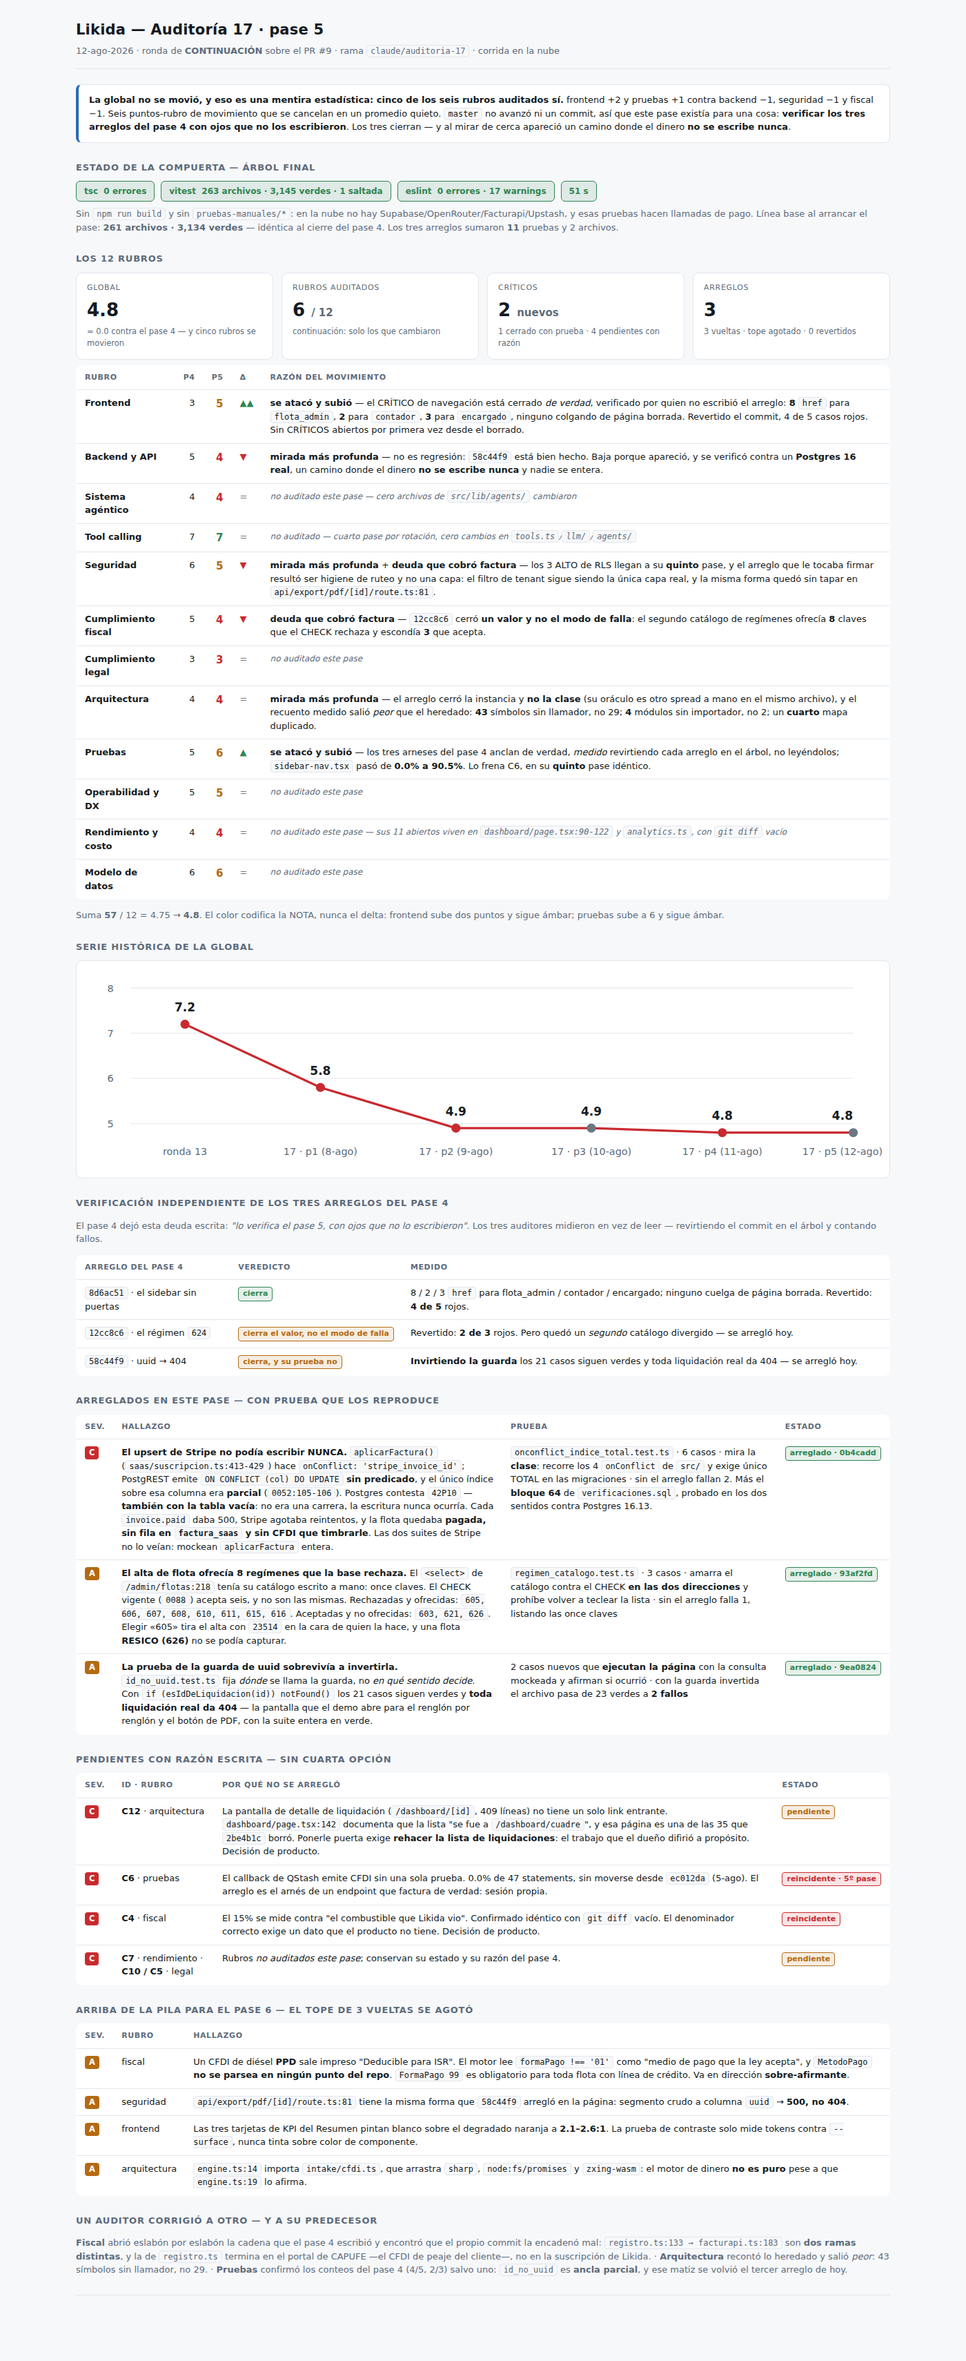
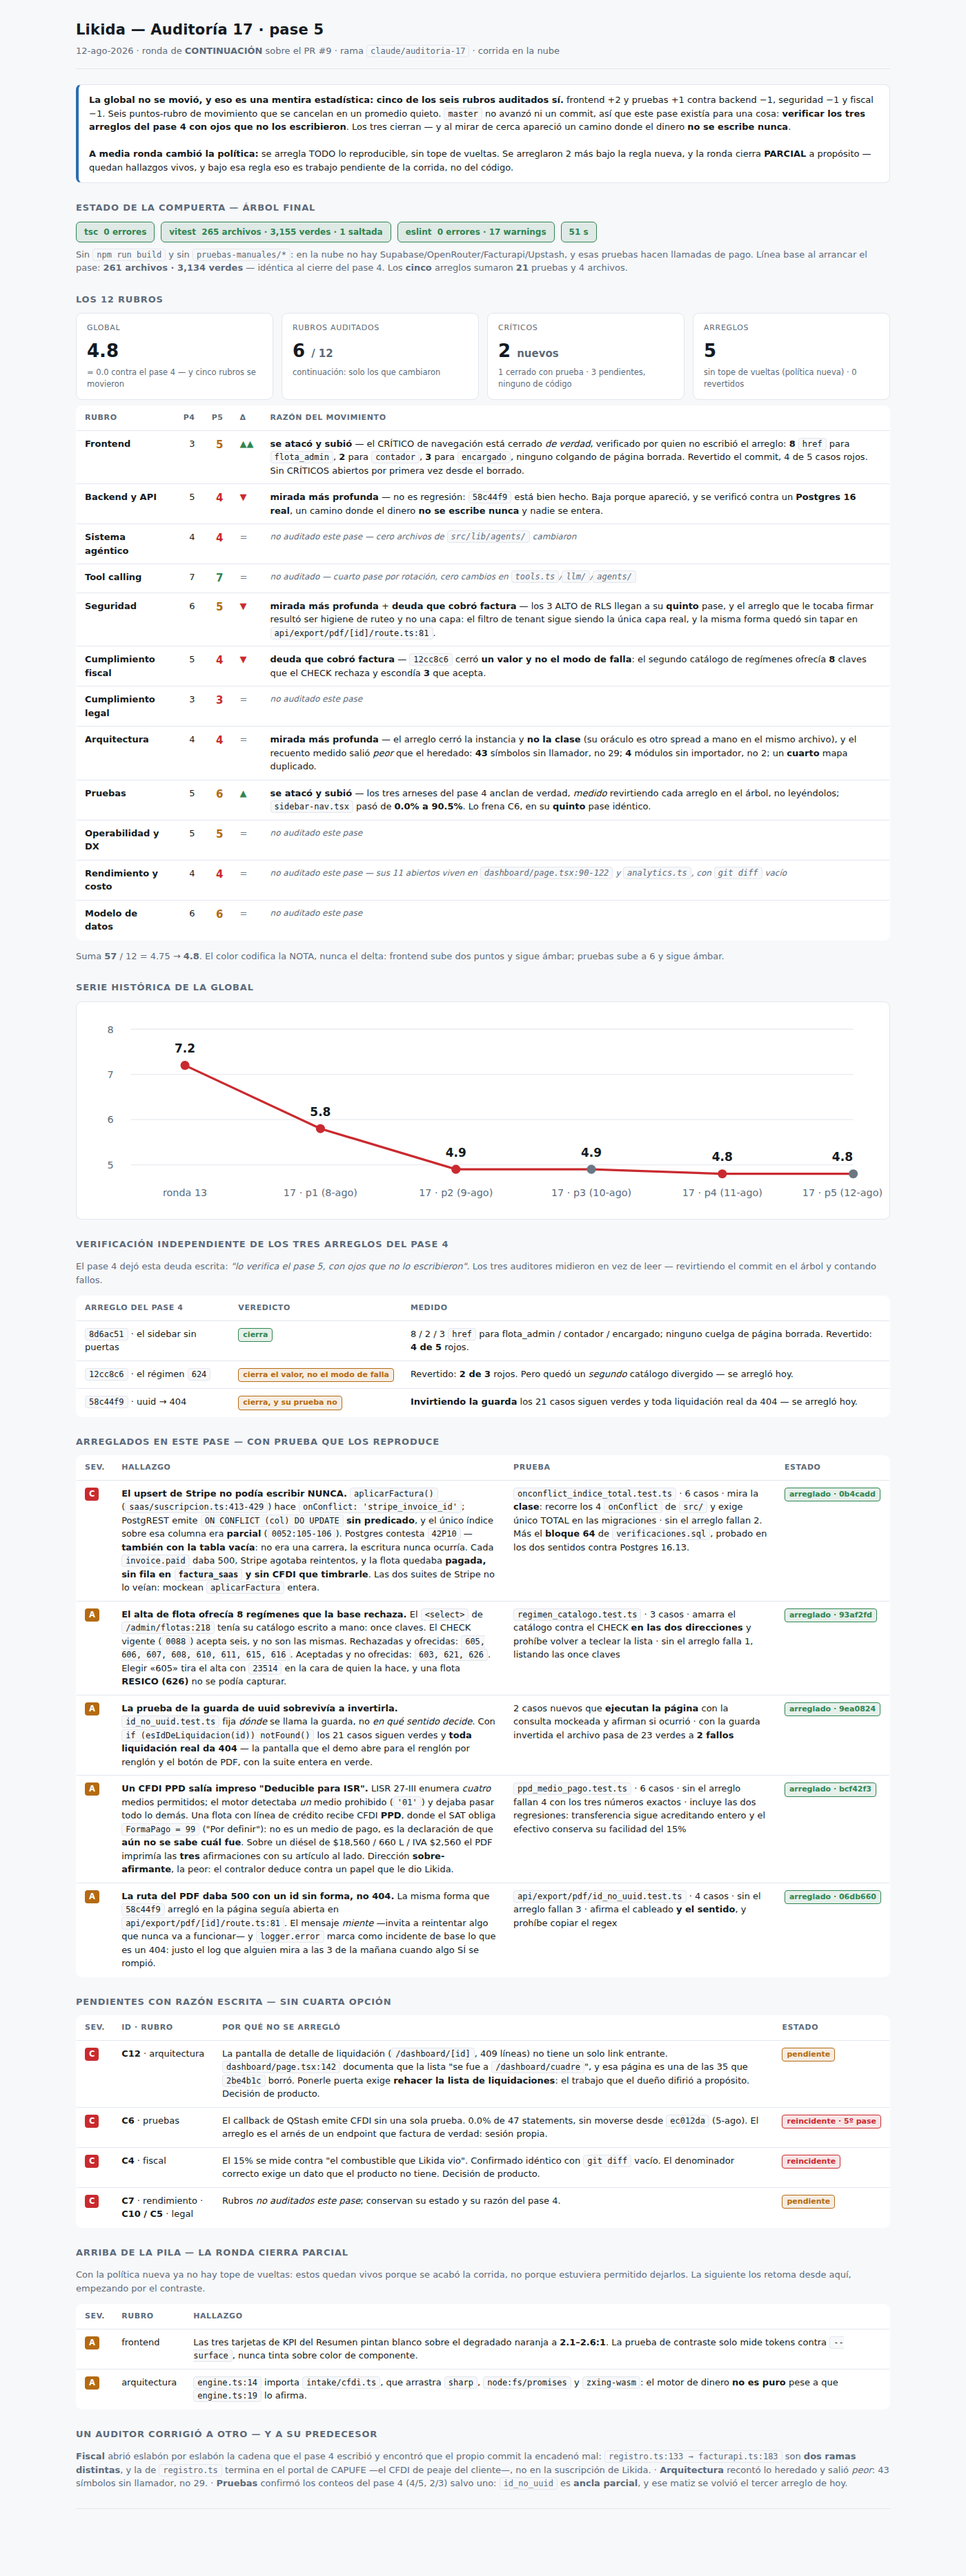
docs(auditoria-17): pase 5 cierra PARCIAL — 5 arreglados bajo la politica nueva
A media ronda cambio la politica (a3e3b5a): se arregla todo lo reproducible,
sin tope de vueltas. Se arreglaron 2 mas despues del cambio — el CFDI PPD
(bcf42f3) y el 500 de la ruta del PDF (06db660) — para un total de 5.

RESULTADO pasa de COMPLETA a PARCIAL a proposito: quedan ~24 ALTO, ~39 MEDIO y
~16 BAJO vivos segun el conteo de los auditores, y bajo la regla nueva eso es
trabajo pendiente de la CORRIDA, no del codigo. progreso.md deja escrito en que
hallazgo se quedo para que la siguiente retome sin reauditar.

Las notas de los rubros NO se movieron por estos dos arreglos: entraron despues
de que los auditores entregaran. Los verifica el pase 6.

Tablero recapturado (1400x3730) y mirado: 12 rubros, 5 arreglos, compuerta
265 archivos / 3,155 verdes.

Claude-Session: https://claude.ai/code/session_01AREwoye4vrRtCWoTxwLUow

diff --git a/docs/auditoria-17/tablero.html b/docs/auditoria-17/tablero.html
@@ -92,12 +92,13 @@
   así que este pase existía para una cosa: <strong>verificar los tres arreglos del pase 4 con ojos
   que no los escribieron</strong>. Los tres cierran — y al mirar de cerca apareció un camino donde
   el dinero <strong>no se escribe nunca</strong>.
+  <br><br><strong>A media ronda cambió la política:</strong> se arregla TODO lo reproducible, sin tope de vueltas. Se arreglaron 2 más bajo la regla nueva, y la ronda cierra <strong>PARCIAL</strong> a propósito — quedan hallazgos vivos, y bajo esa regla eso es trabajo pendiente de la corrida, no del código.
 </div>
 
 <h2>Estado de la compuerta — árbol final</h2>
 <div class="gate">
   <span class="ok">tsc &nbsp;0 errores</span>
-  <span class="ok">vitest &nbsp;263 archivos · 3,145 verdes · 1 saltada</span>
+  <span class="ok">vitest &nbsp;265 archivos · 3,155 verdes · 1 saltada</span>
   <span class="ok">eslint &nbsp;0 errores · 17 warnings</span>
   <span class="ok">51 s</span>
 </div>
@@ -105,15 +106,15 @@
   Sin <code>npm run build</code> y sin <code>pruebas-manuales/*</code>: en la nube no hay
   Supabase/OpenRouter/Facturapi/Upstash, y esas pruebas hacen llamadas de pago.
   Línea base al arrancar el pase: <strong>261 archivos · 3,134 verdes</strong> — idéntica al cierre
-  del pase 4. Los tres arreglos sumaron <strong>11</strong> pruebas y 2 archivos.
+  del pase 4. Los <strong>cinco</strong> arreglos sumaron <strong>21</strong> pruebas y 4 archivos.
 </p>
 
 <h2>Los 12 rubros</h2>
 <div class="grid">
   <div class="card"><div class="k">Global</div><div class="v">4.8</div><div class="n">= 0.0 contra el pase 4 — y cinco rubros se movieron</div></div>
   <div class="card"><div class="k">Rubros auditados</div><div class="v">6 <span style="font-size:15px;color:var(--muted)">/ 12</span></div><div class="n">continuación: solo los que cambiaron</div></div>
-  <div class="card"><div class="k">Críticos</div><div class="v">2 <span style="font-size:15px;color:var(--muted)">nuevos</span></div><div class="n">1 cerrado con prueba · 4 pendientes con razón</div></div>
-  <div class="card"><div class="k">Arreglos</div><div class="v">3</div><div class="n">3 vueltas · tope agotado · 0 revertidos</div></div>
+  <div class="card"><div class="k">Críticos</div><div class="v">2 <span style="font-size:15px;color:var(--muted)">nuevos</span></div><div class="n">1 cerrado con prueba · 3 pendientes, ninguno de código</div></div>
+  <div class="card"><div class="k">Arreglos</div><div class="v">5</div><div class="n">sin tope de vueltas (política nueva) · 0 revertidos</div></div>
 </div>
 
 <div class="scroll">
@@ -242,6 +243,32 @@
           con la guarda invertida el archivo pasa de 23 verdes a <strong>2 fallos</strong></td>
       <td><span class="est e-ok">arreglado · 9ea0824</span></td>
     </tr>
+    <tr>
+      <td><span class="pill p-a">A</span></td>
+      <td><strong>Un CFDI PPD salía impreso "Deducible para ISR".</strong>
+          LISR 27-III enumera <em>cuatro</em> medios permitidos; el motor detectaba <em>un</em> medio
+          prohibido (<code>'01'</code>) y dejaba pasar todo lo demás. Una flota con línea de crédito recibe
+          CFDI <strong>PPD</strong>, donde el SAT obliga <code>FormaPago = 99</code> ("Por definir"): no es
+          un medio de pago, es la declaración de que <strong>aún no se sabe cuál fue</strong>. Sobre un diésel
+          de $18,560 / 660 L / IVA $2,560 el PDF imprimía las <strong>tres</strong> afirmaciones con su
+          artículo al lado. Dirección <strong>sobre-afirmante</strong>, la peor: el contralor deduce contra un
+          papel que le dio Likida.</td>
+      <td><code>ppd_medio_pago.test.ts</code> · 6 casos · sin el arreglo fallan 4 con los tres números
+          exactos · incluye las dos regresiones: transferencia sigue acreditando entero y el efectivo
+          conserva su facilidad del 15%</td>
+      <td><span class="est e-ok">arreglado · bcf42f3</span></td>
+    </tr>
+    <tr>
+      <td><span class="pill p-a">A</span></td>
+      <td><strong>La ruta del PDF daba 500 con un id sin forma, no 404.</strong>
+          La misma forma que <code>58c44f9</code> arregló en la página seguía abierta en
+          <code>api/export/pdf/[id]/route.ts:81</code>. El mensaje <em>miente</em> —invita a reintentar algo
+          que nunca va a funcionar— y <code>logger.error</code> marca como incidente de base lo que es un 404:
+          justo el log que alguien mira a las 3 de la mañana cuando algo SÍ se rompió.</td>
+      <td><code>api/export/pdf/id_no_uuid.test.ts</code> · 4 casos · sin el arreglo fallan 3 · afirma el
+          cableado <strong>y el sentido</strong>, y prohíbe copiar el regex</td>
+      <td><span class="est e-ok">arreglado · 06db660</span></td>
+    </tr>
   </tbody>
 </table>
 </div>
@@ -267,15 +294,12 @@
 </table>
 </div>
 
-<h2>Arriba de la pila para el pase 6 — el tope de 3 vueltas se agotó</h2>
+<h2>Arriba de la pila — la ronda cierra PARCIAL</h2>
+<p class="sub">Con la política nueva ya no hay tope de vueltas: estos quedan vivos porque se acabó la corrida, no porque estuviera permitido dejarlos. La siguiente los retoma desde aquí, empezando por el contraste.</p>
 <div class="scroll">
 <table>
   <thead><tr><th>Sev.</th><th>Rubro</th><th>Hallazgo</th></tr></thead>
   <tbody>
-    <tr><td><span class="pill p-a">A</span></td><td>fiscal</td>
-        <td>Un CFDI de diésel <strong>PPD</strong> sale impreso "Deducible para ISR". El motor lee <code>formaPago !== '01'</code> como "medio de pago que la ley acepta", y <code>MetodoPago</code> <strong>no se parsea en ningún punto del repo</strong>. <code>FormaPago 99</code> es obligatorio para toda flota con línea de crédito. Va en dirección <strong>sobre-afirmante</strong>.</td></tr>
-    <tr><td><span class="pill p-a">A</span></td><td>seguridad</td>
-        <td><code>api/export/pdf/[id]/route.ts:81</code> tiene la misma forma que <code>58c44f9</code> arregló en la página: segmento crudo a columna <code>uuid</code> → <strong>500, no 404</strong>.</td></tr>
     <tr><td><span class="pill p-a">A</span></td><td>frontend</td>
         <td>Las tres tarjetas de KPI del Resumen pintan blanco sobre el degradado naranja a <strong>2.1–2.6:1</strong>. La prueba de contraste solo mide tokens contra <code>--surface</code>, nunca tinta sobre color de componente.</td></tr>
     <tr><td><span class="pill p-a">A</span></td><td>arquitectura</td>
@@ -296,7 +320,7 @@
 
 <div class="foot">
   Ronda de continuación sobre el PR #9 · <strong>6 de 12</strong> rubros reauditados (los únicos cuyo código
-  cambió) · 3 vueltas de arreglo, tope agotado, <strong>0 revertidos</strong> · <code>master</code> no avanzó
+  cambió) · <strong>5 arreglos</strong> pusheados, sin tope de vueltas, <strong>0 revertidos</strong> · <code>master</code> no avanzó
   ni un commit desde el pase 4: lo único que cambió fueron los tres arreglos del propio pase 4, y por eso
   este pase fue sobre todo su verificación independiente.
 </div>

diff --git a/docs/auditoria-17/progreso.md b/docs/auditoria-17/progreso.md
@@ -231,3 +231,32 @@ Dos consecuencias prácticas, ya aplicadas:
 - Tope de 3 vueltas agotado. Ningún arreglo revertido.
 - Tablero reescrito para el pase 5, capturado (1400×3420) y MIRADO: 12 rubros contados, suma 57 → 4.8, cuadra con la síntesis.
 - Compuerta final: tsc 0 · vitest 263 archivos / 3,145 verdes / 1 saltada · eslint 0 errores / 17 warnings.
+
+## Cambio de política a media ronda (12-ago-2026)
+
+Javier, en la sesión: **"por más que sean muchos se corrija todo"** y que se
+pushee. Se retiró el tope de 3 vueltas de la skill (`a3e3b5a`) y se siguió
+arreglando con la política nueva. Lo que quedó acotado: tres intentos POR
+HALLAZGO (no por ronda), un arreglo un commit, cambios quirúrgicos, y las tres
+salidas que no son "arreglado" —no reproducible · decisión del dueño (escalada
+POR NOMBRE con la pregunta concreta) · la suite rechazó los tres intentos—.
+
+- **Vuelta 4** — ALTO [fiscal] un CFDI **PPD** salía impreso "Deducible para ISR". `FormaPago 99` ("Por definir", obligatorio en PPD) pasaba por medio de pago válido: cubeta `deducible`, 660 L al estímulo y $2,560 de IVA acreditados sobre un pago que el motor nunca vio. Tipo nuevo `medio_pago_no_acreditado` (POR_CONFIRMAR + SIN_ACREDITAMIENTO + REVISAR, ruta `panel`) y `pagoElectronico` deja de contar el 99. Prueba `ppd_medio_pago.test.ts` (falla 4/6 sin el arreglo, con los tres números exactos). Commit `bcf42f3`. **Cero regresiones en el motor de dinero.**
+- **Vuelta 5** — ALTO [seguridad] `api/export/pdf/[id]/route.ts:81` tenía la misma forma que `58c44f9` arregló en la página: 22P02 → **500** con un mensaje que invita a reintentar algo que nunca va a funcionar, y `logger.error` marcando un 404 como incidente de base. Reusa `esIdDeLiquidacion` en vez de copiar el regex. Prueba `api/export/pdf/id_no_uuid.test.ts` (falla 3/4 sin el arreglo) que afirma el cableado **y el sentido**. Commit `06db660`.
+
+### Dónde se quedó
+
+**5 arreglados** (1 CRÍTICO + 4 ALTO), todos pusheados. Según el conteo de los
+seis auditores quedan **~24 ALTO, ~39 MEDIO y ~16 BAJO** sin arreglar, más 3
+CRÍTICOS que no son de código:
+
+- **C12** (arquitectura) · **C4** (fiscal) · **C6** (pruebas) → decisión del
+  dueño o sesión propia. Escalados por nombre con su pregunta.
+- El siguiente de la pila, para que la corrida que retome no tenga que
+  redecidir: **[frontend] las tres tarjetas de KPI del Resumen a 2.1–2.6:1 de
+  contraste**, y después **[arquitectura] `engine.ts:14` importa `intake/cfdi.ts`
+  y arrastra `sharp`/`zxing-wasm` al motor de dinero**.
+
+La ronda cierra **PARCIAL** a propósito: bajo la política nueva, dejar
+hallazgos reproducibles vivos es trabajo pendiente de la corrida, no del
+código, y así se dice.

diff --git a/docs/auditoria-17/00-SINTESIS.md b/docs/auditoria-17/00-SINTESIS.md
@@ -7,6 +7,18 @@ compuerta sin `npm run build`.
 
 > Las síntesis de los pases 1, 2, 3 y 4 siguen íntegras más abajo.
 
+> **ADENDA (12-ago, a media ronda).** Javier cambió la política: *"por más que
+> sean muchos se corrija todo"*, y que cada arreglo se pushee. Se retiró el tope
+> de 3 vueltas de la skill (`a3e3b5a`) y se siguieron arreglando hallazgos bajo
+> la regla nueva: **5 en total** (1 CRÍTICO + 4 ALTO), todos pusheados. Los dos
+> que entraron después del cambio son el CFDI **PPD** saliendo "Deducible para
+> ISR" (`bcf42f3`) y el **500 en vez de 404** de la ruta del PDF (`06db660`).
+> La ronda cierra **PARCIAL**: quedan hallazgos reproducibles vivos, y bajo la
+> política nueva eso es trabajo pendiente de la CORRIDA, no del código.
+> Las notas de los rubros **no se movieron** por estos dos arreglos — entraron
+> después de que los auditores entregaran, así que los verifica el pase 6.
+
+
 ## Nota global: 4.8/10 (igual que el pase 4) — **= 0.0**
 
 Y el empate es una mentira estadística, no una meseta. **Cinco de los seis rubros

diff --git a/docs/auditoria-17/RESULTADO.md b/docs/auditoria-17/RESULTADO.md
@@ -1,4 +1,6 @@
-COMPLETA (pase 5, ronda de CONTINUACIÓN sobre el PR #9)
+PARCIAL (pase 5, ronda de CONTINUACIÓN sobre el PR #9): 5 hallazgos arreglados y pusheados; quedan ~24 ALTO, ~39 MEDIO y ~16 BAJO sin arreglar, y 3 CRÍTICOS que no son de código (C12, C4, C6). El siguiente de la pila es el contraste de los KPI del Resumen.
+
+A media ronda Javier cambió la política: se arregla TODO lo reproducible, sin tope de vueltas (skill actualizada en `a3e3b5a`). Se arreglaron 2 más bajo la política nueva y la ronda cierra PARCIAL a propósito — bajo esa regla, dejar hallazgos reproducibles vivos es trabajo pendiente de la CORRIDA, no del código.
 
 Ronda 17, pase 5, 12-ago-2026, corrida en la nube. 6 rubros reauditados de 12 —
 frontend, backend, seguridad, fiscal, arquitectura y pruebas, los únicos cuyo
